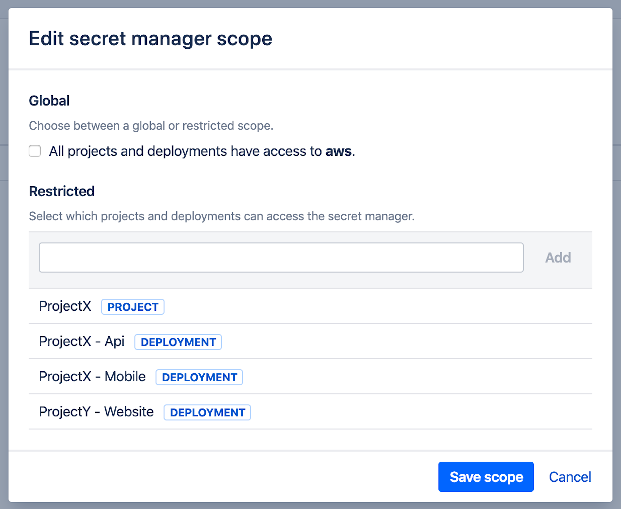
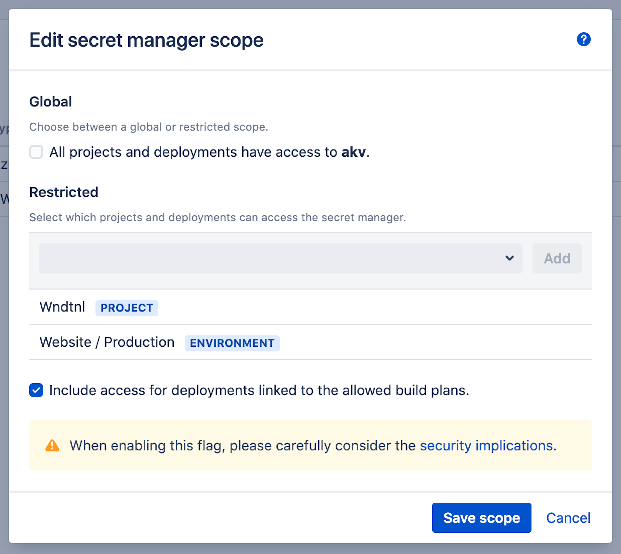
Update scoping documentation for SMB v2.0

diff --git a/products/smb/topics/scoping.md b/products/smb/topics/scoping.md
@@ -23,7 +23,7 @@ The Secret Manager scope dialog appears:
 
 <kbd>![bamboo-scope-dialog-global](../_media/screenshots/bamboo_scope_dialog_global.png "Bamboo Scope Dialog Global")</kbd>
 
-In order to restrict the scope, unselect the checkmark below the *Global* section first. The search box below the *Restricted* section will now be enabled.
+In order to restrict the scope, unselect the checkbox below the *Global* section first. The elements found below the *Restricted* section will now be enabled.
 
 Use the search box to filter the list of Projects and Deployments.
 
@@ -38,6 +38,33 @@ As a consequence, once a Project has been added its child Plans will no longer b
 
 <kbd>![bamboo-scope-dialog-added](../_media/screenshots/bamboo_scope_dialog_added.png "Bamboo Scope Dialog Added")</kbd>
 
+In addition, the checkbox "Include access for deployments linked to the allowed build plans." can be set as shown above. When this option is set,
+any deployment (and its child environments) which are linked to a whitelisted plan will automatically receive access to the Secret Manager as well.
+
+Note that the same inheritance rules still apply. When only a build project is whitelisted and this flag is set, any future child plans as well as any deployments linked to them
+will receive access without the need to update the scope.
+
+To illustrate, consider the setup depicted below. 
+
+```
+Project (A)
+  Plan (1) <- Deployment (X)
+                Environment (Z)
+                Envrionment (Y)
+  Plan (2)
+```
+
+Plan (1) and Plan (2) are children of Project (A), and Plan (1) is configured as the source build plan for Deployment (X). Environment (Z) and Environment (Y)
+are children of Deployment (X).
+
+- If Project (A) is whitelisted, and the flag ***is not*** set, then only Plan (1) and Plan (2) receive access through inheritance.
+- If Project (A) is whitelisted, and the flag ***is*** set, then Environment (Z) and Environment (Y) receive access in addition to Plan (1) and Plan (2).
+
+> As the warning in the UI shows, be aware that this flag could lead to abuse when appropriate Bamboo permissions are not in place.
+> When it is possible for a user to link a deployment to a plan, which is itself linked to a Secret Manager where this flag is set, secrets could inadvertently
+> become exposed. Using the Bamboo project permissions, ensure that users and groups who can create deployments can only link with build plans to which they have
+> the same access rights as the Secret Managers linked to them.
+
 Save changes when done. The table will now display *Restricted* in the *Scope* column.
 
 ## Usage
@@ -45,3 +72,5 @@ Save changes when done. The table will now display *Restricted* in the *Scope* c
 Referencing a secret from a build or deployment not defined within the scope of the respective secret manager will result in the following error in the build log.
 
 <kbd>![bamboo-scope-build-error](../_media/screenshots/bamboo_scope_build_error.png "Bamboo Scope Build Error")</kbd>
+
+
